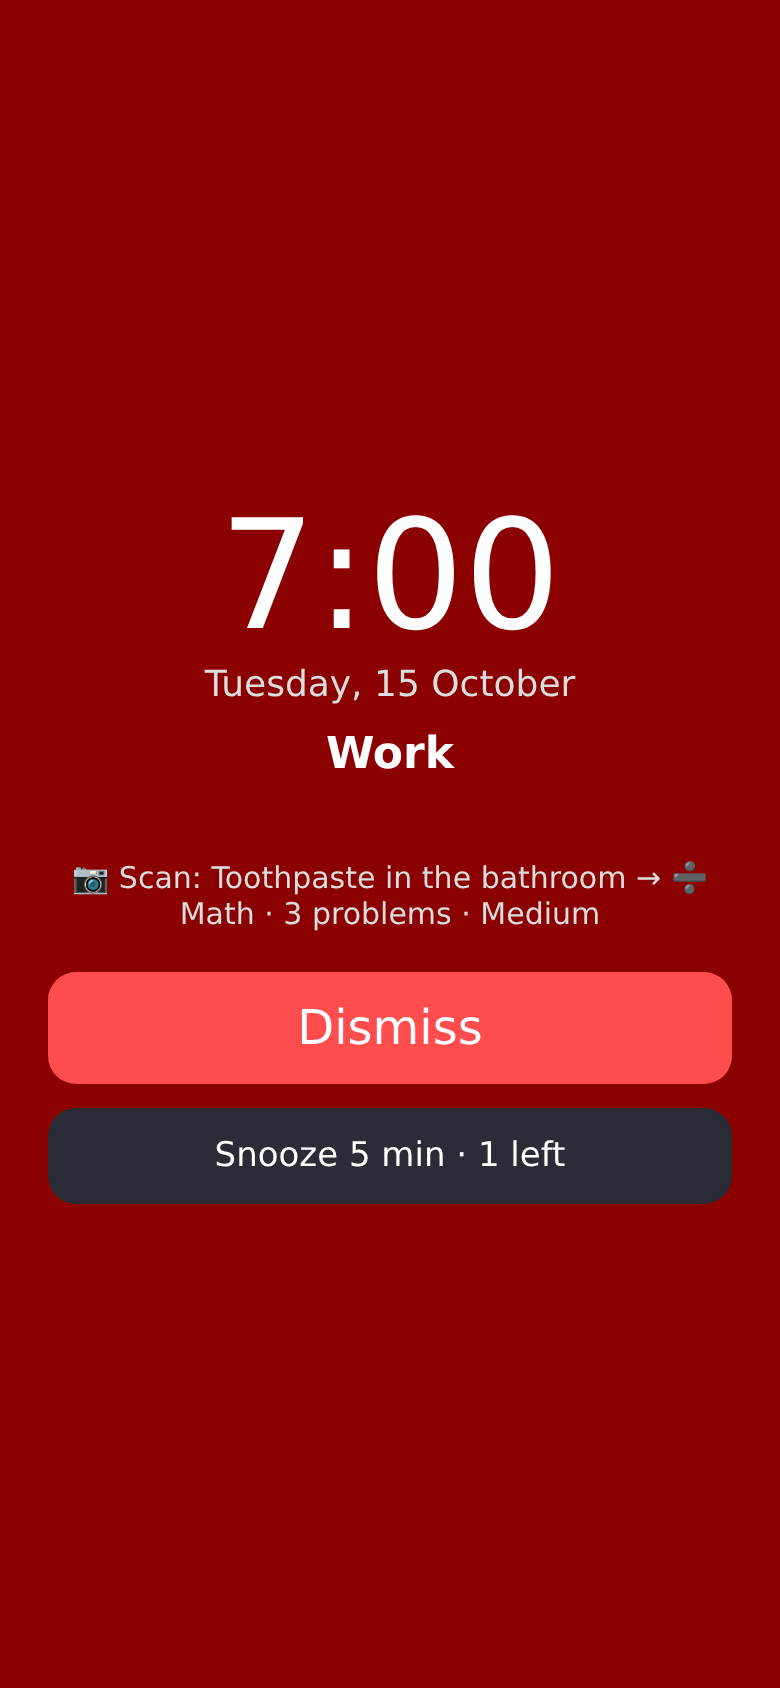
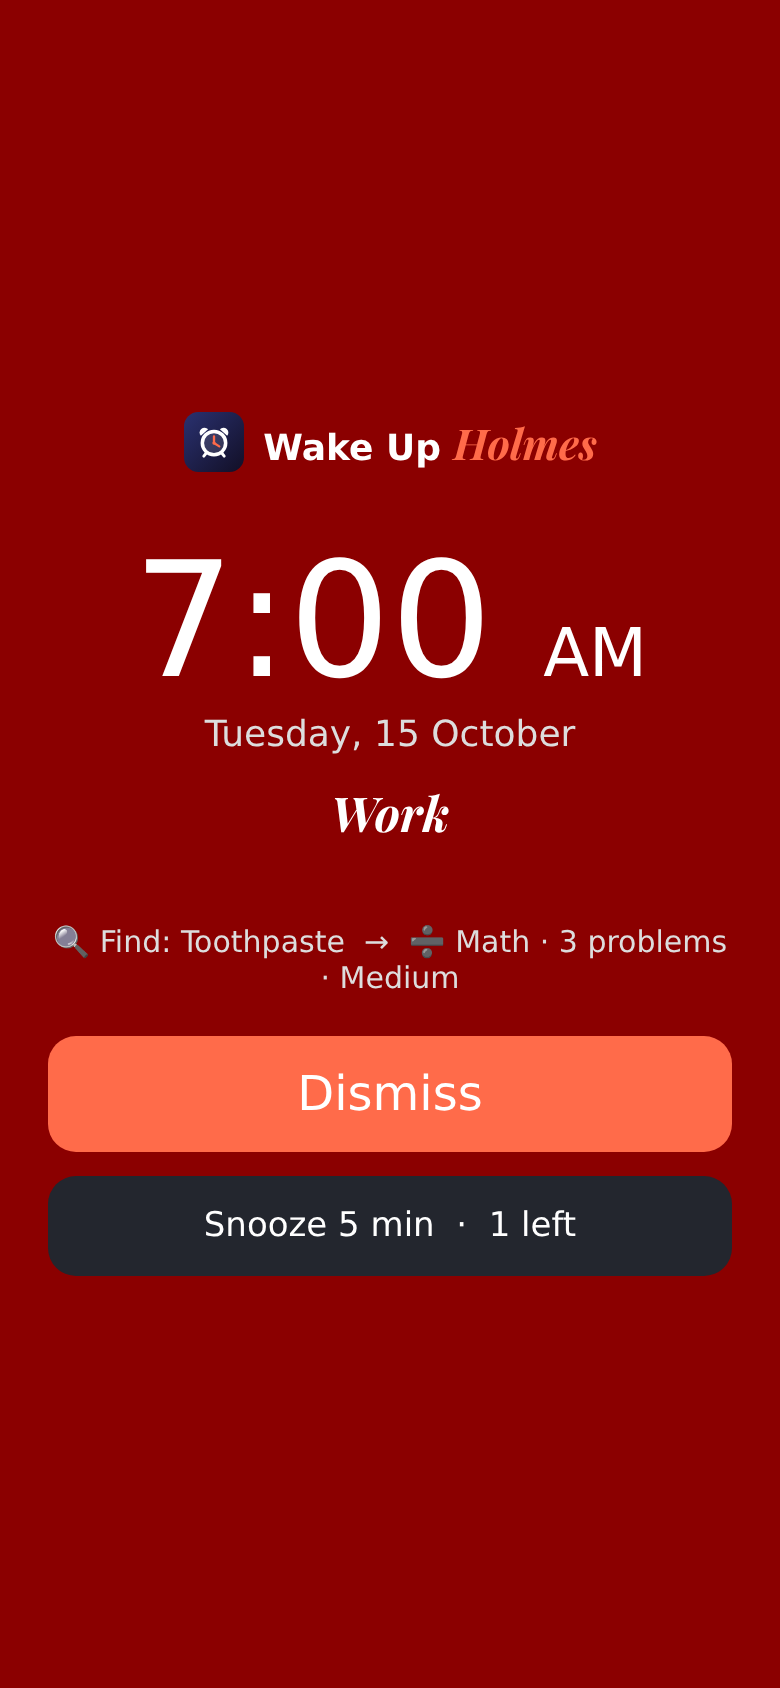
Update mockups for the new design
Claude-Session: https://claude.ai/code/session_01QLNJiECyWStrCmUTBW4ucB

diff --git a/README.md b/README.md
@@ -36,8 +36,8 @@ Every push builds the app with GitHub Actions. Download `WakeUpHolmes.apk` from 
 
 These are drawn from the app's layout code, not captured from a phone.
 
-| Home | Edit alarm | Ringing |
+| Startup | Home | Ringing |
 |---|---|---|
-| ![](docs/mockups/1-home.png) | ![](docs/mockups/2-edit-alarm.png) | ![](docs/mockups/3-ringing.png) |
-| **Math mission** | **Memory mission** | **Wake-up check** |
-| ![](docs/mockups/4-math-mission.png) | ![](docs/mockups/5-memory-mission.png) | ![](docs/mockups/6-wake-up-check.png) |
+| ![](docs/mockups/1-splash.png) | ![](docs/mockups/2-home.png) | ![](docs/mockups/3-ringing.png) |
+| **Find the item** | **Register an item** | **App icon** |
+| ![](docs/mockups/4-find-the-item.png) | ![](docs/mockups/5-register-item.png) | ![](docs/mockups/6-app-icon.png) |
